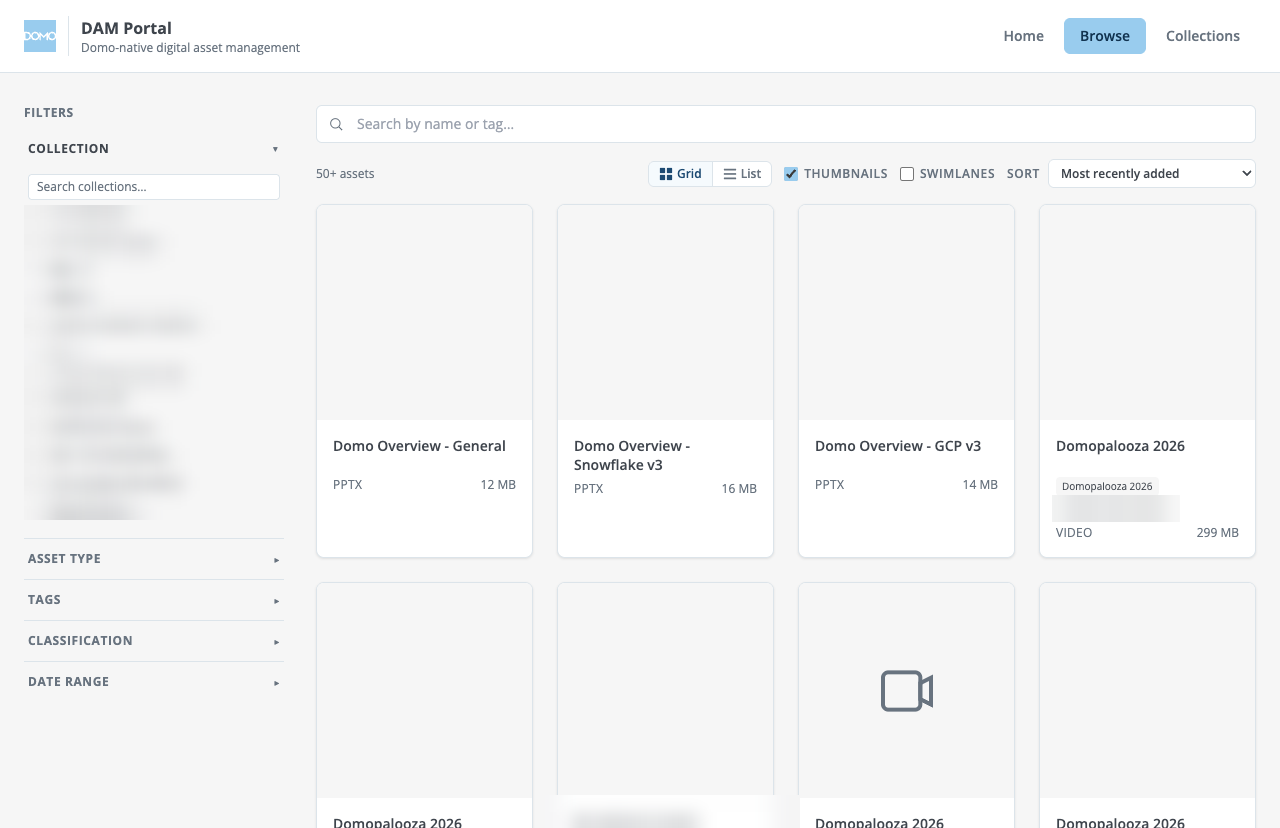
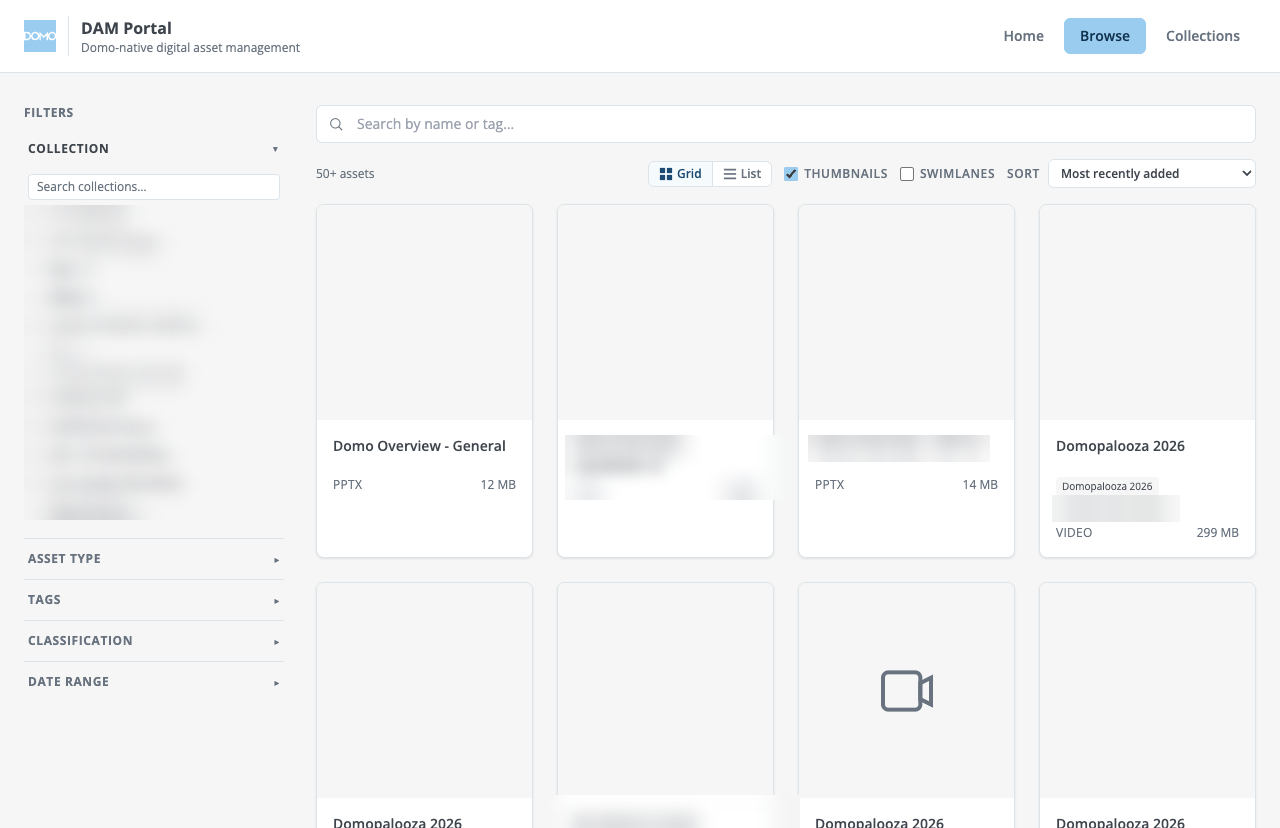
Final zero-leak fixes + email gate endpoint
- Roster: merged duplicate strategist rows (count no longer reconstructs
  survey internals), sample framing replaces count-is-the-point line
- AirOps genericized to 'AI content platform'; gate term added
- DAM screenshot: partner deck titles blurred
- PDF: colophon fits contents page (24pp)
- Access gate wired to Apps Script logging endpoint

Changed region(s): [[0.4375, 0.5133, 0.5312, 0.6039], [0.625, 0.5133, 0.7812, 0.5737], [0.5625, 0.5737, 0.5938, 0.6039]]

diff --git a/src/data/roster.ts b/src/data/roster.ts
@@ -95,13 +95,7 @@ export const teamRoster: TeamMember[] = [
     tool: "Custom AI Agents",
   },
   {
-    role: "Content Strategist",
-    department: "Content & Comms",
-    workflow: "Using AI and the Knowledge Graph to create and audit content",
-    tool: "Knowledge Graph + AI",
-  },
-  {
-    role: "Sr. Content Strategist",
+    role: "Content Strategists",
     department: "Content & Comms",
     workflow: "Using AI and the Knowledge Graph to create and audit content",
     tool: "Knowledge Graph + AI",
@@ -167,8 +161,8 @@ export const teamRoster: TeamMember[] = [
     role: "Sr. Blog Manager",
     department: "Brand & Community",
     workflow:
-      "Implemented AirOps, automating the blog creation process end-to-end",
-    tool: "AirOps + AI",
+      "Implemented an AI content platform, automating the blog creation process end-to-end",
+    tool: "AI content platform",
   },
 
   // Leadership & Strategy

diff --git a/src/components/DomoStory/Education.tsx b/src/components/DomoStory/Education.tsx
@@ -77,9 +77,9 @@ export default function Education() {
               The roster, by department
             </h3>
             <p className="measure mt-4 text-ink-soft">
-              Each line is one person and the workflow they now run in
-              production — built or co-built during enablement, documented, and
-              in daily use. The length of the list is the point.
+              Selected entries from the roster — each one a workflow now
+              running in production, built or co-built during enablement,
+              documented, and in daily use.
             </p>
             <p className="measure mt-3 font-mono text-caption text-ink-soft">
               Published with the consent of those named; roles are generalized

diff --git a/src/lib/access.ts b/src/lib/access.ts
@@ -5,8 +5,9 @@
  * Apps Script endpoint backed by a Sheet.
  */
 
-/** Paste the Apps Script Web App URL (ends in /exec) here after deploying. */
-export const ACCESS_LOG_ENDPOINT = "";
+/** Apps Script Web App endpoint backed by the access-log Sheet. */
+export const ACCESS_LOG_ENDPOINT =
+  "https://script.google.com/macros/s/AKfycbw0srPiP3ffdbpPHylXYhAtvKfs4QNYkALquDGnUkAJ2upjKWPz15eySeZSkHG8nzVv/exec";
 
 const STORAGE_KEY = "jh-access-v1";
 

diff --git a/scripts/pdf-template.html b/scripts/pdf-template.html
@@ -478,8 +478,7 @@ table.catalog td.tool { width: 38mm; color: #5F594F; }
     displaced license invoices, and pipeline in the CRM of record. Where a
     number is self-reported, the sourcing note says&nbsp;so.</p>
   </div>
-  <p class="colophon eyebrow">Set in Newsreader, General Sans &amp; IBM Plex Mono&ensp;·&ensp;Composed June 2026&ensp;·&ensp;Lehi, Utah</p>
-  <p class="colophon eyebrow" style="margin-top: 2mm">Production screenshots are blurred for confidentiality.</p>
+  <p class="colophon eyebrow">Set in Newsreader, General Sans &amp; IBM Plex Mono&ensp;·&ensp;Production screenshots blurred for confidentiality.</p>
 </section>
 
 <!-- =================================================== 3 · THE RECORD -->